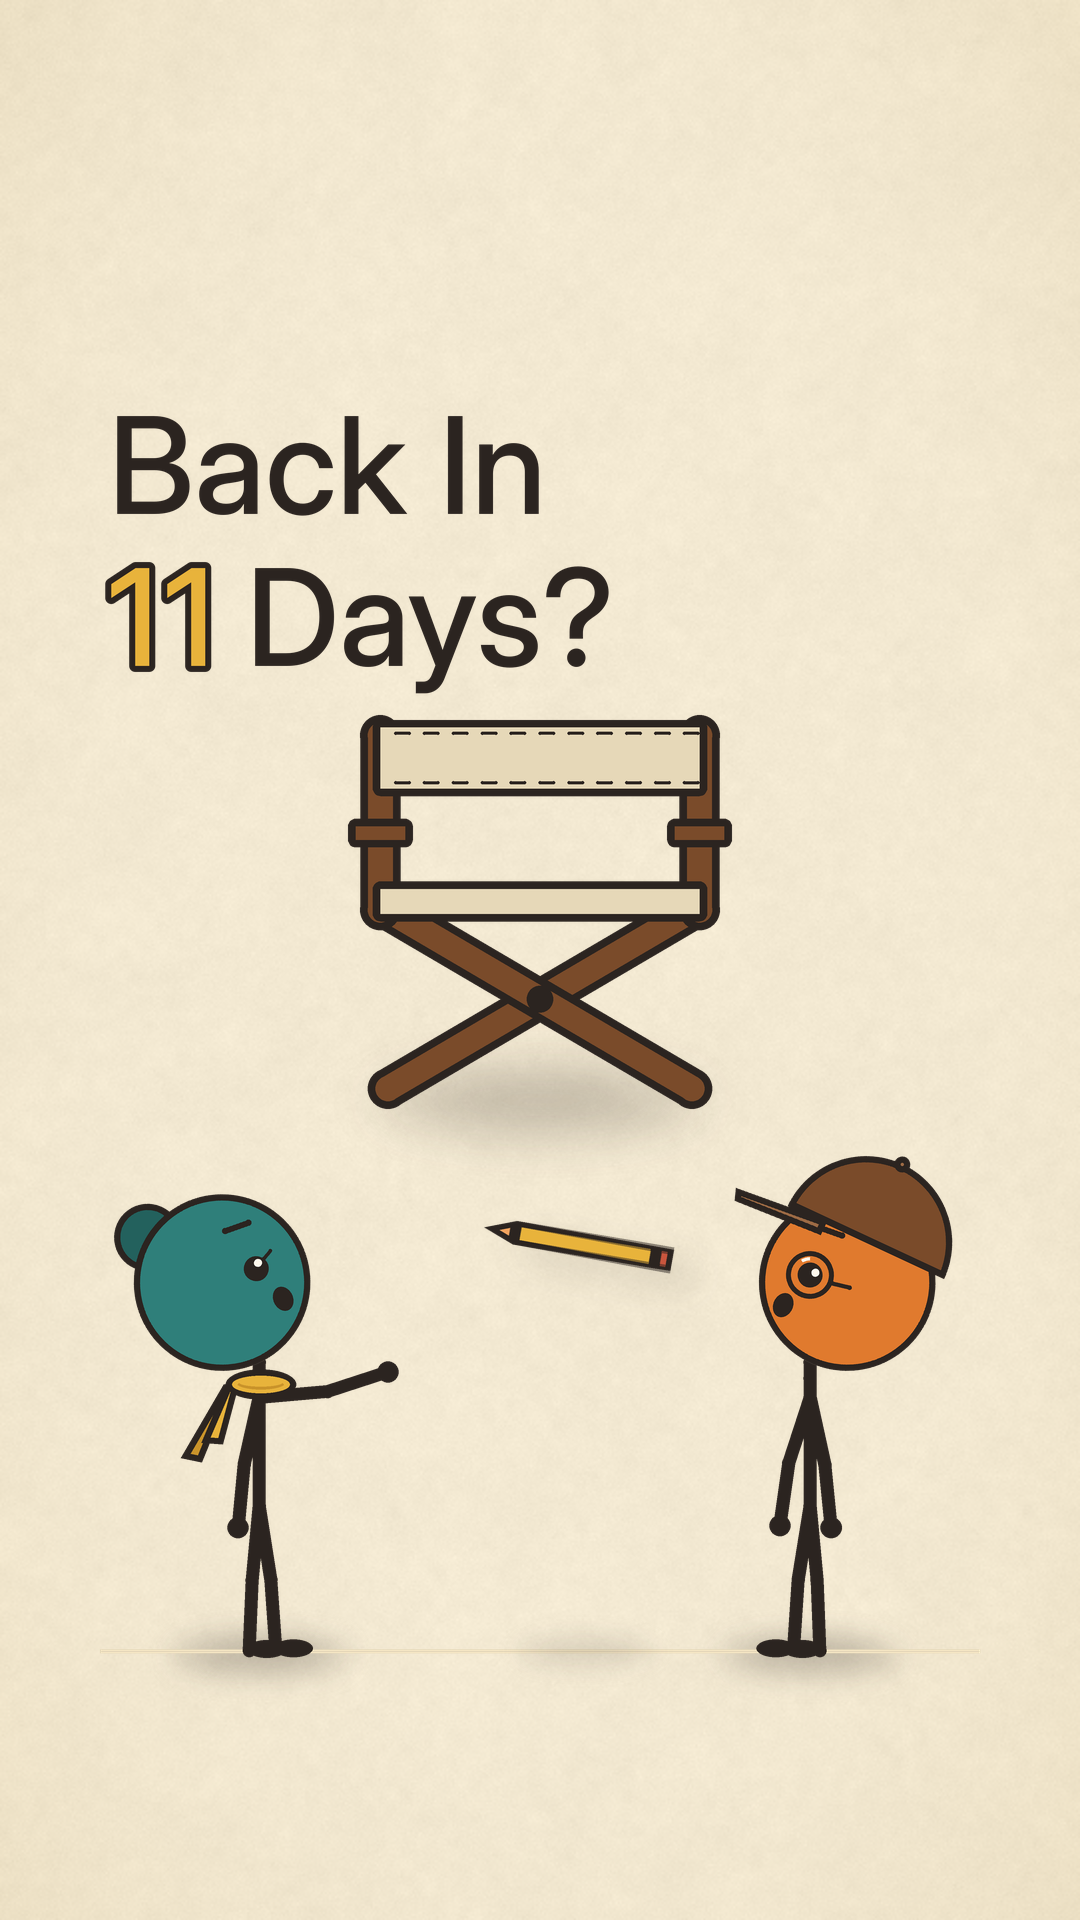
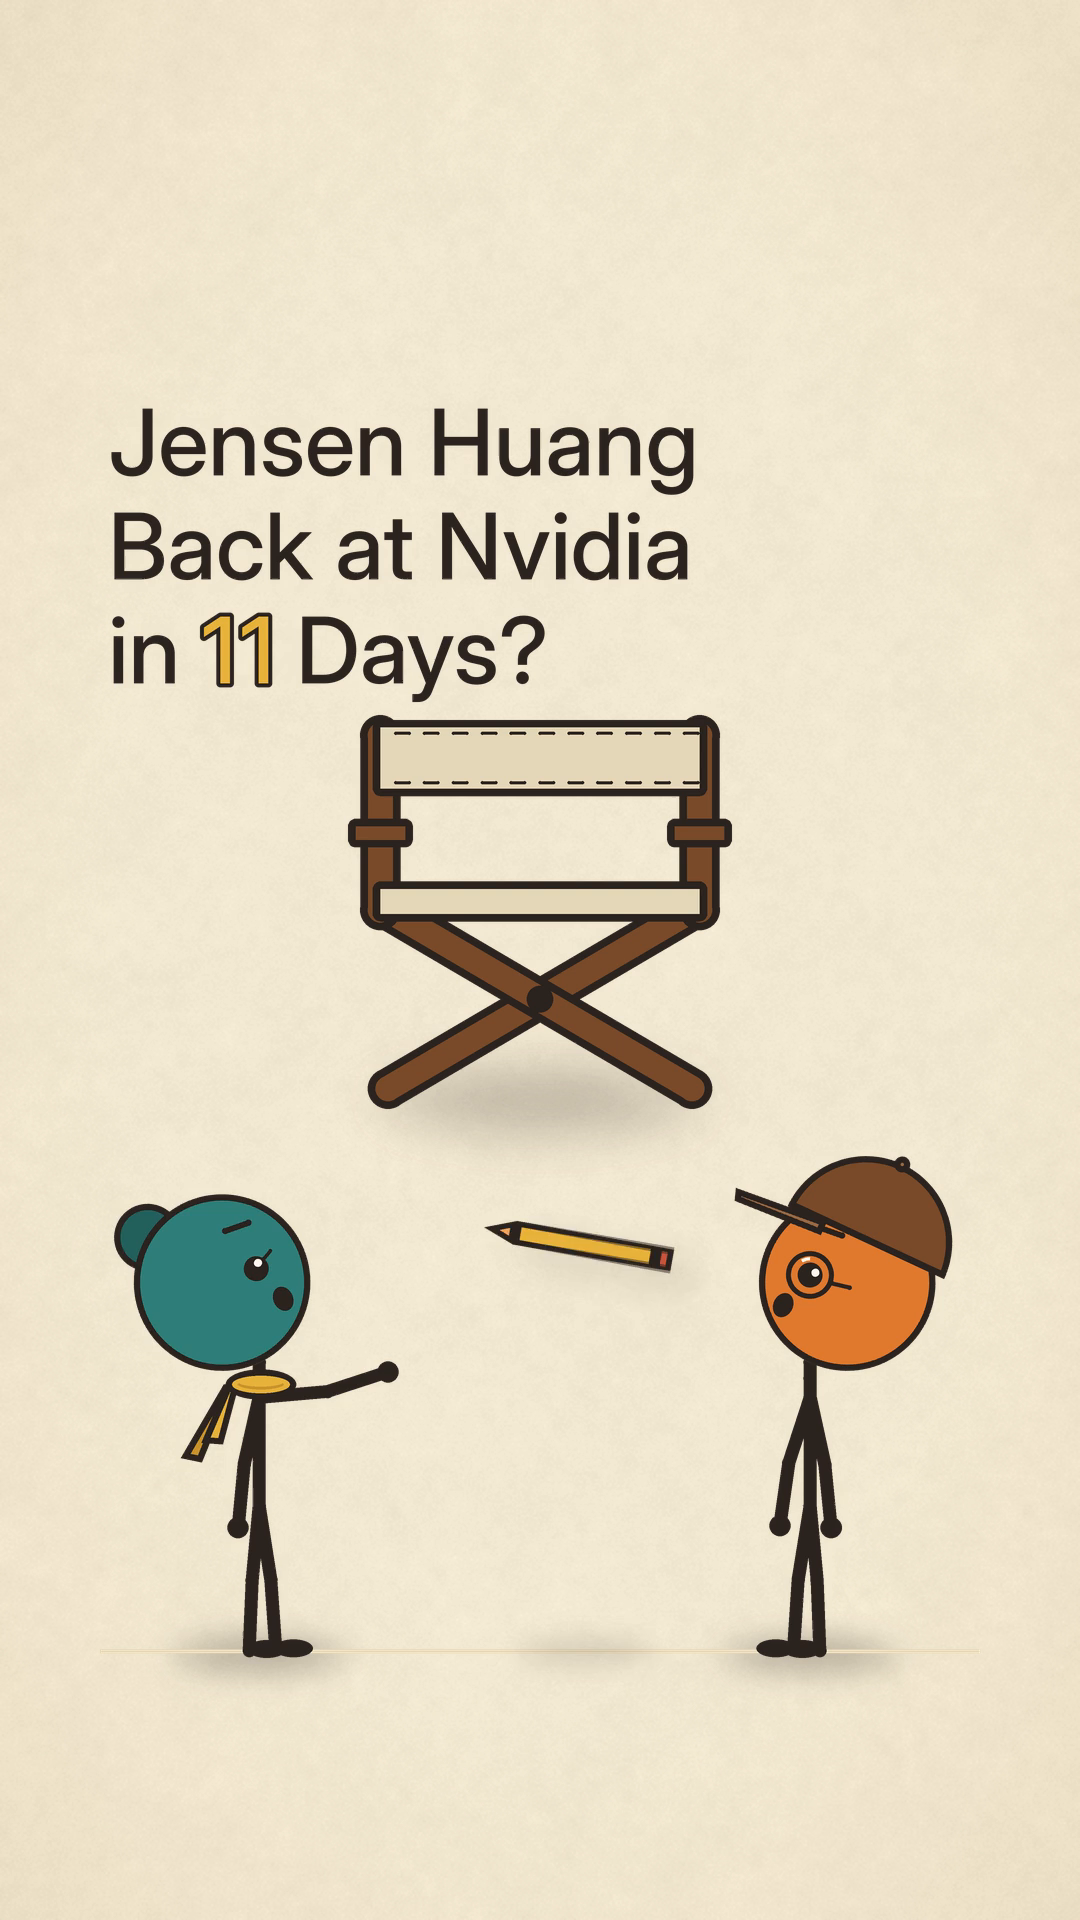
Short 3: la portada nombra a Jensen Huang y a Nvidia (render 4) y regla nueva de portadas
Claude-Session: https://claude.ai/code/session_01518ZoRVZH1wGrNexzG8g5b

Changed region(s): [[0.0917, 0.2188, 0.6417, 0.375]]

diff --git a/video-studio/proyectos/2026-11-24_tin_y_tan_jensen_huang/codigo/render.py b/video-studio/proyectos/2026-11-24_tin_y_tan_jensen_huang/codigo/render.py
@@ -57,8 +57,8 @@ BANDA_Y0, BANDA_Y1 = 905, 1085   # banda de subtítulos en español
 ALTO_PORTADA = 487.0             # R = 88 px
 X_PORTADA = (0.24 * W, 0.75 * W)    # Tin en 75 %: con 76 % la gorra salía 2 px de la zona útil (x 960)
 SILLA_PORTADA = dict(cx=540.0, base=1100.0, alto=380.0)      # y 720-1100
-TAM_PORTADA = 0.07 * H           # 134 px: dos renglones entre y = 400 y 700 (a 12 % no caben dos renglones)
-Y_PORTADA = (414.0, 566.0)       # tope de las letras altas de cada renglón
+TAM_PORTADA = 92.0               # dueño (2026-11-24): la portada nombra de quién se habla; a 105 px el renglón largo cabe con su golpe de escala
+Y_PORTADA = (408.0, 512.0, 616.0)   # tres renglones: el dueño pidió nombrar a Jensen y a Nvidia       # tope de las letras altas de cada renglón
 DX_CUERPO = 0.5                  # el desplazamiento del cuerpo de Tan de la firma, a la mitad (-4/+5 px): que no patine
 PORTADA_GEO = dict(R=ALTO_PORTADA / 5.53, x_tan=X_PORTADA[0], x_tin=X_PORTADA[1], suelo=SUELO,
                    texto=(108, 400, 700, 700), objeto=(540 - 181, 720, 540 + 181, 1100),
@@ -579,7 +579,7 @@ def toma_de(f):
 TEXTO_X = 0.10 * W
 TAM_ROTULO = 0.07 * H            # 134 px
 Y_ROTULO = 0.14 * H              # 269 px: tope de las letras altas
-PORTADA_SEGS = ((T("Back In"),), (K("11"), T(" Days?")))
+PORTADA_SEGS = ((T("Jensen Huang"),), (T("Back at Nvidia"),), (T("in "), K("11"), T(" Days?")))
 FIJOS = {
     "11 days?": (K("11"), T(" days?")), "Nov 12": (T("Nov "), K("12")), "Nov 17": (T("Nov "), K("17")),
     "+6 days": (T("+"), K("6"), T(" days")), "Nov 23": (T("Nov "), K("23")), "11 days": (K("11"), T(" days")),
@@ -609,8 +609,9 @@ def capa_rotulos(base, f):
         if que == "portada":                                    # entero y quieto desde el fotograma 0 (es la portada)
             alfa = 1.0 if f < fs - 3 else 1 - ((f - (fs - 3) + 1) / 4) ** 2
             g = 1 + 0.12 * max(0.0, fx.impulso_muelle((f - GOLPE_CLAVE) / FPS, POP))
-            _pegar_texto(base, PORTADA_SEGS[0], TEXTO_X, Y_PORTADA[0], TAM_PORTADA, alfa=alfa)
-            _pegar_texto(base, PORTADA_SEGS[1], TEXTO_X, Y_PORTADA[1], TAM_PORTADA, esc=g, alfa=alfa)
+            for segs_p, y_p in zip(PORTADA_SEGS[:-1], Y_PORTADA[:-1]):
+                _pegar_texto(base, segs_p, TEXTO_X, y_p, TAM_PORTADA, alfa=alfa)
+            _pegar_texto(base, PORTADA_SEGS[-1], TEXTO_X, Y_PORTADA[-1], TAM_PORTADA, esc=g, alfa=alfa)
             continue
         if que == "portada_cierre":                             # entra con pop en c = -30 y llega a escala 1 exacta
             esc = 0.85 + 0.15 * muelle_exacto(t - entra, POP, sale - entra)
@@ -747,7 +748,7 @@ def _lum(f):
 
 def todos_los_textos():
     """Todo lo que se escribe en pantalla (para `revisar_texto.py` y la comprobación de glifos)."""
-    ingles = ["Back In", "11 Days?"] + list(FIJOS) + ["4,382 days"] + list(NOMBRES)
+    ingles = ["Jensen Huang", "Back at Nvidia", "in 11 Days?"] + list(FIJOS) + ["4,382 days"] + list(NOMBRES)
     espanol = [" ".join(r[3]) for r in tm.SUBTITULOS]
     return ingles, espanol
 
@@ -761,11 +762,11 @@ def comprobaciones():
     v = [tm.contador(f / FPS) for f in range(N)]
     assert all(b >= a for a, b in zip(v, v[1:])) and max(v) == tm.VALOR_JOBS and min(v) == 0, "contador mal"
     for que, segs in list(FIJOS.items()) + [("contador", (R("4,382"), T(" days"))), ("portada 1", PORTADA_SEGS[0]),
-                                            ("portada 2", PORTADA_SEGS[1])]:
+                                            ("portada 2", PORTADA_SEGS[1]), ("portada 3", PORTADA_SEGS[2])]:
         tam = TAM_PORTADA if que.startswith("portada") else TAM_ROTULO
         ancho = fx.ancho_texto(tuple(segs), tam) * 1.12
         assert TEXTO_X + ancho <= SEG_X1, f"rótulo fuera de la zona segura: {que} ({TEXTO_X + ancho:.0f} px)"
-        assert len("".join(s for s, _ in segs).split()) <= 3, f"rótulo de más de 3 palabras: {que}"
+        assert len("".join(s for s, _ in segs).split()) <= (4 if que.startswith("portada") else 3), f"rótulo de demasiadas palabras: {que}"
     medidas = []
     for nombre in NOMBRES:
         assert SEG_X0 + 2 + fx.ancho_texto(((nombre, TINTA),), TAM_NOMBRE) * 1.02 <= SEG_X1 and len(nombre.split()) <= 3

diff --git a/video-studio/proyectos/2026-11-24_tin_y_tan_jensen_huang/02_prompt/prompt.md b/video-studio/proyectos/2026-11-24_tin_y_tan_jensen_huang/02_prompt/prompt.md
@@ -99,7 +99,7 @@ sobre la voz ESTIMADA. Cada corte cae en un pulso de 0,5 s, a 0,0–0,25 s antes
 - **Personajes:** @tan, @tin
 - **Método:** edición
 - **Escenario:** papel_crema
-- **Encuadre:** la portada: texto «Back In / 11 Days?» arriba (y 400–700), la silla_director en el centro (y 720–1100), Tan y Tin debajo de perfil mirando la silla
+- **Encuadre:** la portada: texto «Jensen Huang / Back at Nvidia / in 11 Days?» arriba (y 400–700), la silla_director en el centro (y 720–1100), Tan y Tin debajo de perfil mirando la silla
 - **Cámara:** fija, escala 100 %
 - **Acción:** el lápiz de Tin ya viene girando de vuelta desde el fotograma 0 (estela plana), baja por el lado derecho, se frena y **Tin lo atrapa en el fotograma 15**; la silla crece de 0,82 a 1,0 en 12 fotogramas; Tan, con el brazo aún extendido del lanzamiento, pregunta.
 - **Audio:** línea 1, Tan (primera parte): "Was Jensen Huang's comeback in eleven days fast?" (la línea va de 0,00 a 2,31 s). Vuelo del lápiz con vibrato de 0,0 a 0,5 s y golpe al atrapar en 0,5 s (sección 13).
@@ -110,7 +110,7 @@ sobre la voz ESTIMADA. Cada corte cae en un pulso de 0,5 s, a 0,0–0,25 s antes
 
 - Fotograma 0: lápiz libre con centro en (930, 790) a ángulo 35 grados y escala 1,4, estela de dos copias; **el último fotograma del video (el 914) es esta misma imagen con el lápiz saliendo** (toma 14). El lápiz puede pasar de x = 960 (solo es objeto, no cara ni texto); se mide que no toque el texto ni la silla (≥ 40 px).
 - Recorrido de llegada (15 fotogramas, ease-out): (930, 790) → (975, 1050) → mano de Tin (≈ 860, 1380; se mide en el render), giro de 2,5 vueltas que se frena, escala de 1,4 a 1,0. En el fotograma 15, `pop` pequeño de 4 px hacia abajo en la mano de Tin y sonido.
-- Texto «Back In / 11 Days?» entero y quieto desde el fotograma 0 (es la portada; sin `pop` de entrada), tamaño 12 % del alto, tope de las letras en y = 26 % (medida a repetir: x 116–848, y 492–682); clave «11» en mostaza con contorno de tinta; golpe de la clave en el fotograma 6 (escala 1,0 a 1,18 en 5 fotogramas y asiento en 7). Sale a los 0,9 s.
+- Texto «Jensen Huang / Back at Nvidia / in 11 Days?» entero y quieto desde el fotograma 0 (es la portada; sin `pop` de entrada), tamaño 12 % del alto, tope de las letras en y = 26 % (medida a repetir: x 116–848, y 492–682); clave «11» en mostaza con contorno de tinta; golpe de la clave en el fotograma 6 (escala 1,0 a 1,18 en 5 fotogramas y asiento en 7). Sale a los 0,9 s.
 - Tan: pose `pregunta`, expresión `curiosidad`, vista `perfil`, `mira=1`, `cabeza_giro=25`, x = 24 %, pies a 86 %, `alto` 487 px (el plano de portada es más grande que el resto), `espejo=True`. Tin: pose `parado`, expresión `sorpresa`, vista `perfil`, `mira=-1`, `cabeza_giro=25`, x = 76 %, `objeto=False` hasta el fotograma 15 y `objeto="lapiz"` desde entonces. Las caras quedan dentro de la zona útil de portada (x 60–960, y 380–1440). Con suelo.
 - **Sin subtítulo en español** (portada). **Color:** acento mostaza = la clave «11» + el lápiz; la silla es neutra (papel sombra y marrón). Cabezas, gorra y bufanda son identidad, no acento.
 
@@ -356,7 +356,7 @@ sobre la voz ESTIMADA. Cada corte cae en un pulso de 0,5 s, a 0,0–0,25 s antes
 **Especificación de dibujo:**
 
 - De 29,0 a 29,6 plano fijo con los dos de frente, respirando (acción secundaria). A 29,63 se pasan, sin corte, a la composición de la portada (personajes de perfil con la cabeza a 25 grados) en 6 fotogramas de `slide`; **el último fotograma debe ser igual al fotograma 0** (diferencia media menor de 3 de 255, como en el short 2). Lápiz libre con estela, z de 0 a −420, escala de 1,0 a 1,4, giro de 3 vueltas con aceleración (ease-in), trayectoria de la mano de Tan (≈ 280, 1380) a (930, 790).
-- Texto «Back In / 11 Days?» entra con `pop` en 30,0 y está a escala 1 en 30,5 (igual que el fotograma 0). Sin subtítulo en español en 29,6–30,5 (cuadro de portada limpio). **Color:** acento mostaza = la clave «11» + el lápiz. Con suelo.
+- Texto «Jensen Huang / Back at Nvidia / in 11 Days?» entra con `pop` en 30,0 y está a escala 1 en 30,5 (igual que el fotograma 0). Sin subtítulo en español en 29,6–30,5 (cuadro de portada limpio). **Color:** acento mostaza = la clave «11» + el lápiz. Con suelo.
 
 ## 7. Audio
 
@@ -427,7 +427,7 @@ That's all, folks.
 - **Orden:** Toma 1 → Toma 2 → … → Toma 14 (y vuelve a la toma 1). Las tomas 1 y 14 comparten el fotograma de empalme.
 - **Transiciones (todas motivadas):** corte en el movimiento (1 a 2), revelado desde desenfoque de la mesa (3 a 4, una vez), corte seco en el resto. Sin barridos, sin destellos, sin negativo, sin «atravesar la escena», sin congelado.
 - **Texto en pantalla:** se dibuja en el mismo render: los rótulos en inglés de la sección 12 y la banda de subtítulos en español. El texto nunca contradice lo que se oye.
-- **Portada:** el fotograma 0 cumple los 6 puntos de la regla del dueño (`ENTREGA_YOUTUBE.md`, «Portada de los Shorts»): «Back In / 11 Days?» (4 palabras en 2 líneas, mayúscula inicial en cada una, clave «11» en mostaza) entre y 400 y 700; **el objeto del centro es la silla de director vacía** (y 720–1100), que es el que cuenta la noticia (esa regla habla de «objeto nostálgico»; aquí manda `PARAMETROS.md`: el objeto es el del tema); las caras de Tan y Tin, de perfil y con la cabeza a 25 grados, mirándola, dentro de la zona útil (x 60–960, y 380–1440). **Excepción a «sin la respuesta ni el número»:** la cifra «11» va a la vista por decisión del equipo (`PARAMETROS.md`: «La cifra en el título o en la portada: se decide por video»); no es la respuesta del video. El video cumple lo que promete la portada. `codigo/miniatura.py` guarda el fotograma 0 como `06_final/portada_short03.png` (1080x1920) y mide las cajas.
+- **Portada:** el fotograma 0 cumple los 6 puntos de la regla del dueño (`ENTREGA_YOUTUBE.md`, «Portada de los Shorts»): «Jensen Huang / Back at Nvidia / in 11 Days?» (4 palabras en 2 líneas, mayúscula inicial en cada una, clave «11» en mostaza) entre y 400 y 700; **el objeto del centro es la silla de director vacía** (y 720–1100), que es el que cuenta la noticia (esa regla habla de «objeto nostálgico»; aquí manda `PARAMETROS.md`: el objeto es el del tema); las caras de Tan y Tin, de perfil y con la cabeza a 25 grados, mirándola, dentro de la zona útil (x 60–960, y 380–1440). **Excepción a «sin la respuesta ni el número»:** la cifra «11» va a la vista por decisión del equipo (`PARAMETROS.md`: «La cifra en el título o en la portada: se decide por video»); no es la respuesta del video. El video cumple lo que promete la portada. `codigo/miniatura.py` guarda el fotograma 0 como `06_final/portada_short03.png` (1080x1920) y mide las cajas.
 - **Formato de salida:** 1080x1920, 30 fps, H.264, yuv420p, AAC a 48 kHz. Archivo `06_final/tin_y_tan_short03_v1.mp4`. Pesa unos 3 MB: se recomprime a CRF 22 si pasa de 3,1 MB.
 - **Título de la publicación (inglés):** Jensen Huang Is Back as Nvidia CEO After 11 Days
 - **Descripción de la publicación (en inglés, obligatoria; con una línea de suscripción):**
@@ -508,7 +508,7 @@ CRITICAL: no flashes: at most 2 sudden brightness changes in any second (hard li
 
 - **Regla formal de la pieza:** hechos en orden con fecha, una cifra por plano y una comparación honesta; la cifra solo sube; todo corte cae en un pulso de 0,5 s.
 - **Rejilla de tiempo:** pulso de 0,5 s; 61 pulsos = 30,5 s. La voz entra en el pulso 0 (fotograma 0). Los 13 cortes caen en 1,0; 2,5; 6,5; 10,0; 13,0; 14,0; 16,0; 17,0; 19,5; 23,5; 24,5; 26,5 y 29,0 (más el bucle en 30,5). Inicios estimados de la voz: 0,00; 2,54; 6,68; 9,95; 13,23; 16,00; 17,19; 19,53; 23,47; 24,66 y 26,78. Cada corte cae de 0,0 a 0,25 s antes de la línea que le toca; los de 13,0 y 14,0 caen dentro de la línea 5 a propósito («Before that:» / el número). Se revisan al oído con la voz real.
-- **Gancho (0 a 2,5 s):** el fotograma 0 es la portada: la silla de director vacía, el lápiz de Tin ya girando de vuelta (con estela), «Back In / 11 Days?» entero, Tan y Tin de perfil mirando la silla, y la voz de Tan ya preguntando «Was Jensen Huang's comeback…» desde el fotograma 0. Tin atrapa el lápiz en el fotograma 15. En 1,0 el corte en el movimiento pasa a Tan sola. Sin logo, sin título, sin segundo mudo. **Una sola incógnita abierta:** ¿rápido comparado con quién?
+- **Gancho (0 a 2,5 s):** el fotograma 0 es la portada: la silla de director vacía, el lápiz de Tin ya girando de vuelta (con estela), «Jensen Huang / Back at Nvidia / in 11 Days?» entero, Tan y Tin de perfil mirando la silla, y la voz de Tan ya preguntando «Was Jensen Huang's comeback…» desde el fotograma 0. Tin atrapa el lápiz en el fotograma 15. En 1,0 el corte en el movimiento pasa a Tan sola. Sin logo, sin título, sin segundo mudo. **Una sola incógnita abierta:** ¿rápido comparado con quién?
 - **Empieza en movimiento:** sí: el lápiz gira y se acerca desde el fotograma 0, la silla crece y Tan y Tin rebotan.
 - **Motivo visual que vuelve (con las mismas formas y colores):** la silla_director vacía (tomas 1, 2, 3, 4, 8, 13 y 14), el calendario de noviembre (tomas 3, 5 y 6), las barras (tomas 7 y 9 a 12) y el lápiz de Tin (tomas 1, 3 a 7, 9, 12, 13 y 14).
 - **Cierre:** decidido con la tabla de la sección 4b del manual 14 (resumida en 4b.3): **respuesta con remate** (toma 12), **una pregunta abierta, nueva y respondible** (toma 13: «Who else came back?») **que es la razón de la única invitación** («Subscribe for the next count.») y el lápiz lanzado (toma 14) que empalma con el fotograma 0. La pregunta final no es de suspenso sobre la persona. La voz termina en 29,09; silencio de voz en el empalme: 1,41 s.
@@ -616,7 +616,7 @@ Cada efecto sale de `manual/14_efectos_y_emocion.md` (secciones 2, 3, 4, 4b y 6)
 
 | Texto | Entra (s) | Sale (s) | Posición (% del cuadro) | Tamaño (% del alto) |
 |---|---|---|---|---|
-| Back In / 11 Days? (clave: 11; entero en el fotograma 0, sin pop; es la portada; dos renglones) | 0,00 | 0,90 | 10, 22 | 7 |
+| Jensen Huang / Back at Nvidia / in 11 Days? (clave: 11; entero en el fotograma 0, sin pop; es la portada; dos renglones) | 0,00 | 0,90 | 10, 22 | 7 |
 | 11 days? (clave: 11) | 1,10 | 3,40 | 10, 14 | 7 |
 | Nov 12 (clave: 12) | 5,36 | 6,40 | 10, 14 | 7 |
 | Nov 17 (clave: 17) | 7,00 | 8,90 | 10, 14 | 7 |
@@ -629,7 +629,7 @@ Cada efecto sale de `manual/14_efectos_y_emocion.md` (secciones 2, 3, 4, 4b y 6)
 | 11 days (clave: 11) | 24,60 | 26,90 | 10, 14 | 7 |
 | Who else? (clave: else) | 27,05 | 28,19 | 10, 14 | 7 |
 | Subscribe (clave) | 28,34 | 29,90 | 10, 14 | 7 |
-| Back In / 11 Days? (entra con pop; sigue sin corte en la toma 1) | 30,00 | 31,00 | 10, 22 | 7 |
+| Jensen Huang / Back at Nvidia / in 11 Days? (entra con pop; sigue sin corte en la toma 1) | 30,00 | 31,00 | 10, 22 | 7 |
 | Huang 11 (nombre de la barra de 11 días; en tinta, sobre su marca) | 16,30 | 27,00 | 9, 27 | 2,9 |
 | Altman 5 (nombre de la barra de 5 días; en tinta, sobre su marca) | 17,80 | 27,00 | 9, 34 | 2,9 |
 | Jobs 4,382 (nombre de la barra de 4.382 días; en tinta, sobre su barra; entra cuando el contador llega) | 22,07 | 27,00 | 9, 40 | 2,9 |

diff --git a/video-studio/cambios/2026-11-24_portada_short3_nombra_jensen_y_nvidia.md b/video-studio/cambios/2026-11-24_portada_short3_nombra_jensen_y_nvidia.md
@@ -1,0 +1,16 @@
+# Cambio: la portada del short 3 nombra a Jensen Huang y a Nvidia
+
+- **Pedido del dueño (2026-11-24), textual:** «Hay que cambiar el título back in 11 days no hace referencia a nada. No es
+  como el video de GTA que aparece eso en el título de la imagen» y «deja algo que nombre jensen y nvidia».
+- **Qué toca:** solo el texto de la portada (primer segundo y cierre del bucle) de `TIN-EN-S-003`. De «Back In / 11 Days?»
+  a «Jensen Huang / Back at Nvidia / in 11 Days?» (tres renglones a 92 px, y 408–703; la clave mostaza sigue siendo «11»).
+  Voz, guion, tomas, subtítulos, cifras y audio no cambian.
+- **Qué hubo que rehacer:** un render por código (render 4, 0 créditos), la portada y la carpeta de entrega.
+- **Costo:** 0 créditos.
+- **Lo que no se puede hacer gratis:** el video ya está público (https://youtube.com/shorts/7iSCEsd04Qs). YouTube no deja
+  cambiar el archivo de un video publicado: hay que borrar o dejar en privado el actual y subir el nuevo, con enlace nuevo
+  y perdiendo las vistas que lleve. Eso lo hace Keter con el sí del dueño.
+- **Regla que queda para el canal:** el texto de portada nombra siempre al sujeto del video (persona, marca u objeto) con
+  las palabras que la gente busca; no basta con la cifra o la pregunta.
+- **Controles del render 4:** 0 destellos, bucle 0,27 de 255, `entrega.py` lista, lo que se oye coincide con el guion.
+  Falta que el supervisor revise la portada nueva (regla de portadas: tres renglones en lugar de dos).

diff --git a/video-studio/REGLAS_CEREBRO.md b/video-studio/REGLAS_CEREBRO.md
@@ -158,3 +158,7 @@
 - **Subtítulos en español en el video (dueño, 2026-11-24):** «te pido colocar subtítulos en español… en el video».
   Voz en inglés y traducción al español quemada en pantalla, en todos los videos de Tin & Tan.
 - **Marca nueva autorizada (dueño, 2026-11-24):** «Sí, carga lo nuevo con Keter»: banner y descripción v2.
+
+- **Portada de los Shorts nombra al sujeto (dueño, 2026-11-24):** «back in 11 days no hace referencia a nada… deja algo
+  que nombre jensen y nvidia». El texto de la portada dice de quién o de qué trata el video (persona, marca u objeto),
+  con las palabras que la gente busca; la cifra o la pregunta sola no basta.
